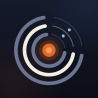
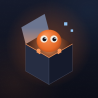
Vault: ridnois-ThinkPad-T495 2026-10-27 14:06:15

diff --git a/System/Brand/Inside the Model/brand.py b/System/Brand/Inside the Model/brand.py
@@ -1,6 +1,7 @@
 #!/usr/bin/env python3
 """Inside the Model: avatar (800x800) and banner (2560x1440), drawn in the house look (ink ground, ember hero).
-Mark: a cut-away core. Nested rings are the model's layers; a quarter is cut out so you see the ember core inside.
+Mascot (27 Oct 2026, user: "Avatar is quite boring, no soul"): the model is a box; a curious ember creature, the thing
+inside the model, lifts the lid and peeks out at you, with two tokens floating up out of the box.
     python3 "System/Brand/Inside the Model/brand.py"      (writes itm-avatar.png, itm-avatar-small.png, itm-banner.png here)"""
 import math, os, random, sys
 import cairo
@@ -8,7 +9,6 @@ sys.path.insert(0, os.path.join(os.path.dirname(os.path.abspath(__file__)), ".."
 from motion import rgb, draw_text
 
 OUT = os.path.dirname(os.path.abspath(__file__))
-CUT = (-math.pi / 2, 0)                                        # the cut-away quarter: top right
 
 
 def ground(w, h):
@@ -34,41 +34,101 @@ def ground(w, h):
     return s, c
 
 
-def arc(c, x, y, r, a0, a1, col, lw, alpha=1.0):
-    c.set_line_cap(cairo.LINE_CAP_ROUND)
-    c.set_source_rgba(*rgb(col, alpha))
-    c.set_line_width(lw)
+def poly(c, pts, col, a=1.0):
     c.new_path()
-    c.arc(x, y, r, a0, a1)
-    c.stroke()
+    c.move_to(*pts[0])
+    for p in pts[1:]:
+        c.line_to(*p)
+    c.close_path()
+    c.set_source_rgba(*rgb(col, a))
+    c.fill()
 
 
-def mark(c, x, y, R):
-    """Three layer rings with the top-right quarter cut away; an ember core with glow; input dots entering through the cut."""
-    gap = 0.16                                                  # angular gap at the cut edges, so the cut reads at 48 px
-    for i, (k, col) in enumerate(((1.0, "slate"), (0.74, "cream"), (0.48, "slate"))):
-        arc(c, x, y, R * k, CUT[1] + gap, CUT[0] + 2 * math.pi - gap, col, R * 0.11)
-        arc(c, x, y, R * k, CUT[0] + gap, CUT[1] - gap, col, R * 0.03, 0.35)   # the removed quarter, as a faint ghost
-    for k_r, a in ((0.42, 0.10), (0.30, 0.20)):
-        c.arc(x, y, R * k_r, 0, 2 * math.pi)
-        c.set_source_rgba(*rgb("ember", a))
+def peek(c, cx, cy, s, look=(0.12, 0.08)):
+    """The mascot: the model as a box, lid lifted, and a curious ember creature peeking out at you from inside.
+    (cx, cy) is the box's front-top corner; s the edge length; look the pupils' direction."""
+    k = math.cos(math.pi / 6) * s
+    F1, L1, R1, K1 = (cx, cy), (cx - k, cy - s / 2), (cx + k, cy - s / 2), (cx, cy - s)
+    F0, L0, R0 = (cx, cy + s), (cx - k, cy + s / 2), (cx + k, cy + s / 2)
+    up = s * 0.62                                              # the lid hinges on the back-left edge and stands open behind
+    Lt, Kt = (L1[0] - s * 0.16, L1[1] - up), (K1[0] - s * 0.16, K1[1] - up)
+    ox, oy = cx, cy - s / 2                                    # centre of the opening
+    rg = cairo.RadialGradient(ox, oy, 0, ox, oy, s * 1.6)      # the light spilling out, behind everything
+    rg.add_color_stop_rgba(0, *rgb("ember", 0.40))
+    rg.add_color_stop_rgba(1, *rgb("ember", 0))
+    c.set_source(rg)
+    c.paint()
+    poly(c, (L1, K1, Kt, Lt), "slate")                         # the open lid; its inner face catches the glow
+    lg = cairo.LinearGradient(0, L1[1], 0, Lt[1])
+    lg.add_color_stop_rgba(0, *rgb("ember2", 0.55))
+    lg.add_color_stop_rgba(1, *rgb("ember2", 0))
+    c.move_to(*L1); c.line_to(*K1); c.line_to(*Kt); c.line_to(*Lt); c.close_path()
+    c.set_source(lg)
+    c.fill()
+    poly(c, (L1, F1, R1, K1), "ink")                           # the inside: dark, lit from deep below
+    ig = cairo.RadialGradient(ox, oy + s * 0.15, 0, ox, oy, k)
+    ig.add_color_stop_rgba(0, *rgb("ember2", 0.9))
+    ig.add_color_stop_rgba(1, *rgb("ember", 0.15))
+    c.move_to(*L1); c.line_to(*F1); c.line_to(*R1); c.line_to(*K1); c.close_path()
+    c.set_source(ig)
+    c.fill()
+    hx, hy, hr = ox, oy - s * 0.12, s * 0.46                   # the creature: a soft ember head rising out, two big eyes
+    c.save()
+    c.translate(hx, hy)
+    c.scale(1, 0.9)
+    c.arc(0, 0, hr, 0, 2 * math.pi)
+    c.restore()
+    hg = cairo.RadialGradient(hx - hr * 0.35, hy - hr * 0.45, 0, hx, hy, hr * 1.1)
+    hg.add_color_stop_rgba(0, *rgb("ember2"))
+    hg.add_color_stop_rgba(0.75, *rgb("ember"))
+    hg.add_color_stop_rgba(1, *rgb("#A8441A"))
+    c.set_source(hg)
+    c.fill()
+    for ex in (-0.4, 0.4):
+        x, y, r = hx + ex * hr, hy - hr * 0.15, hr * 0.29
+        c.arc(x, y, r, 0, 2 * math.pi)
+        c.set_source_rgba(*rgb("cream"))
         c.fill()
-    c.arc(x, y, R * 0.2, 0, 2 * math.pi)
-    c.set_source_rgba(*rgb("ember"))
-    c.fill()
-    c.arc(x, y, R * 0.09, 0, 2 * math.pi)
-    c.set_source_rgba(*rgb("ember2"))
-    c.fill()
-    for k in (0.87, 0.61):                                     # signal dots (inputs) travelling into the cut
-        a = -math.pi / 4
-        c.arc(x + R * k * math.cos(a), y + R * k * math.sin(a), R * 0.045, 0, 2 * math.pi)
+        px, py = x + look[0] * r * 0.9, y + look[1] * r * 0.9
+        c.arc(px, py, r * 0.55, 0, 2 * math.pi)
+        c.set_source_rgba(*rgb("ink"))
+        c.fill()
+        c.arc(px + r * 0.2, py - r * 0.22, r * 0.17, 0, 2 * math.pi)  # catch-light: what gives the eyes life
+        c.set_source_rgba(1, 1, 1, 0.95)
+        c.fill()
+    for ex in (-1, 1):                                         # two small hands gripping the front rims
+        t = 0.45
+        hx2 = F1[0] + ex * k * t
+        c.arc(hx2, F1[1] - s / 2 * t - s * 0.03, s * 0.075, 0, 2 * math.pi)
+        c.set_source_rgba(*rgb("ember2"))
+        c.fill()
+    poly(c, (L0, F0, F1, L1), "haze")                          # the box walls, over the creature's body so it sits inside
+    poly(c, (F0, R0, R1, F1), "ink2")
+    for ex in (-1, 1):                                         # fingers over the rim
+        hx2 = F1[0] + ex * k * 0.45
+        for f in (-1, 0, 1):
+            c.arc(hx2 + f * s * 0.045, F1[1] - s / 2 * 0.45 + s * 0.04 - ex * f * s * 0.026, s * 0.03, 0, 2 * math.pi)
+            c.set_source_rgba(*rgb("ember2"))
+            c.fill()
+    c.set_line_cap(cairo.LINE_CAP_ROUND)
+    for a, b in ((L1, F1), (F1, R1)):                          # rim light where the glow touches
+        c.set_source_rgba(*rgb("ember2", 0.9))
+        c.set_line_width(s * 0.025)
+        c.move_to(*a); c.line_to(*b); c.stroke()
+    for a, b in ((L1, L0), (L0, F0), (F0, R0), (R0, R1), (F1, F0)):
+        c.set_source_rgba(*rgb("slate", 0.5))
+        c.set_line_width(s * 0.015)
+        c.move_to(*a); c.line_to(*b); c.stroke()
+    # two tokens floating up out of the gap
+    for dx, dy, r in ((0.62, -1.25, 0.06), (0.85, -1.0, 0.045)):
+        c.rectangle(cx + dx * s - r * s, cy + dy * s - r * s, 2 * r * s, 2 * r * s)
         c.set_source_rgba(*rgb("signal2"))
         c.fill()
 
 
 def avatar():
     s, c = ground(800, 800)
-    mark(c, 400, 410, 270)                                     # YouTube crops to a circle: the mark stays inside r 340
+    peek(c, 400, 470, 220)                                     # YouTube crops to a circle: the mascot stays inside r 340
     s.write_to_png(f"{OUT}/itm-avatar.png")
     small = cairo.ImageSurface(cairo.FORMAT_ARGB32, 98, 98)
     sc = cairo.Context(small)
@@ -81,10 +141,7 @@ def avatar():
 def banner():
     w, h = 2560, 1440                                          # safe area for every device: 1546x423 centred (x 507-2053, y 508-931)
     s, c = ground(w, h)
-    mx, my = 720, 720
-    for k in range(2, 9):                                      # the same layers, continued faint across the TV-only area
-        arc(c, mx, my, 180 * (1 + 0.5 * (k - 1)), CUT[1] + 0.05, CUT[0] + 2 * math.pi - 0.05, "slate", 3, 0.16 - k * 0.015)
-    mark(c, mx, my, 180)
+    peek(c, 720, 760, 150)
     draw_text(c, "Inside the Model", 965, 650, 128, rgb("cream"))
     draw_text(c, "How AI works  ·  Agents at work  ·  What's coming", 969, 770, 40, rgb("slate"), bold=False)
     draw_text(c, "NEW SHORTS MON TO FRI", 969, 855, 34, rgb("ember2"), spaced=True)

diff --git a/System/Style.md b/System/Style.md
@@ -10,7 +10,7 @@ Captions are always the top layer ([[Design system]] Layers). Approved by the us
 
 ## Brand
 
-- **Inside the Model** (user, 27 Oct 2026: *"I like 3: inside the model. make a new handle, avatar and banner. forget the fox but be original"*; replaces Redtail and its fox). Handle **@insidethemodelai** (`@insidethemodel` is taken; `@insidethemodelai` returned 404 on 27 Oct 2026, so likely free, claimed by the user in Studio). Banner line "How AI works · Agents at work · What's coming" and "NEW SHORTS MON TO FRI". **Mark: the cut-away core**, three layer rings with the top-right quarter cut away, the ember core inside, two signal dots (inputs) entering through the cut; drawn in the look tokens below by `System/Brand/Inside the Model/brand.py` (`itm-avatar.png` 800 px, `itm-banner.png` 2560×1440, text inside the 1546×423 safe area). `System/Brand/Redtail/` stays only for legacy `make_thumbnail.compose`. TikTok still **@redtail_media** until the user renames it; YouTube channel `UCCZX7-YPNPntwPKI1hdv2hQ`.
+- **Inside the Model** (user, 27 Oct 2026: *"I like 3: inside the model. make a new handle, avatar and banner. forget the fox but be original"*; replaces Redtail and its fox). Handle **@insidethemodelai** (`@insidethemodel` is taken; `@insidethemodelai` returned 404 on 27 Oct 2026, so likely free, claimed by the user in Studio). Banner line "How AI works · Agents at work · What's coming" and "NEW SHORTS MON TO FRI". **Mascot: the peeker** (user, 27 Oct 2026: *"Avatar is quite boring, no soul"*, replacing a ring mark the same day): the model is a dark box with its lid open; a round ember creature with big eyes and two small hands on the rim peeks out at you; two signal tokens float up out of the box; drawn in the look tokens below by `System/Brand/Inside the Model/brand.py` (`itm-avatar.png` 800 px, `itm-banner.png` 2560×1440, text inside the 1546×423 safe area). `System/Brand/Redtail/` stays only for legacy `make_thumbnail.compose`. TikTok still **@redtail_media** until the user renames it; YouTube channel `UCCZX7-YPNPntwPKI1hdv2hQ`.
 - Niche: artificial intelligence, in three series (see [[Audience]]). Mission: teach people AI, how it works, how to make agents do real work, and what it changes, in a minute they will want to watch again and repeat to a friend. Pillars: precise (model, version and date on every claim), useful (the viewer can do or explain something new after one minute), calm (no hype, no doom), honest about machines (AI voice, schematics and speed-ups disclosed), real over decorative (real runs, real hardware, no AI clichés).
 - The sign-off is an idea, never "like and subscribe". Brand lives on the channel page, **never inside the video**.
 - Does not do: clickbait, fake experts, staged or retyped demos, drawn mock-ups of real products, photoreal fakes of real events or people, copied scripts, template videos where only the topic word changes, launch-day news recaps.
